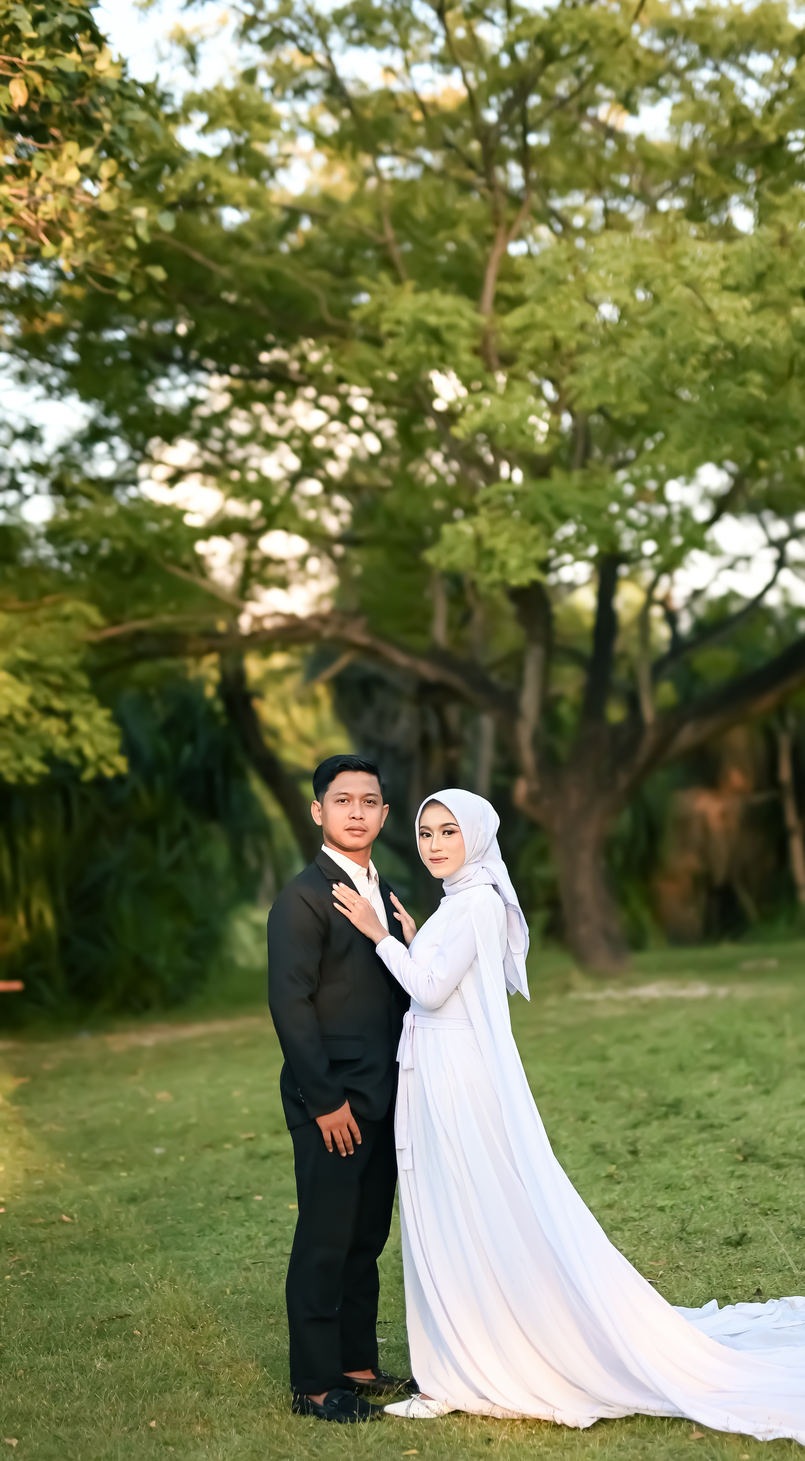
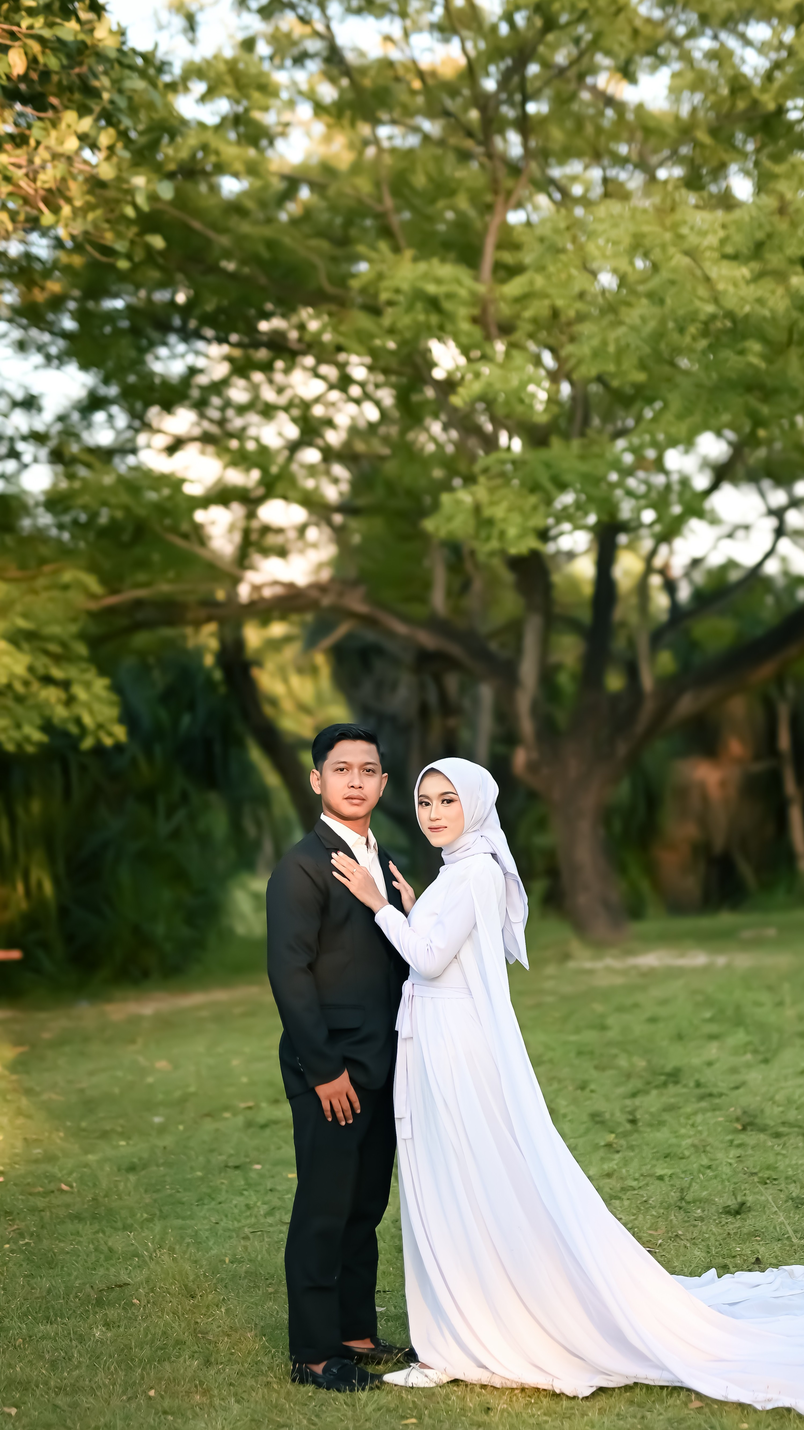
dwqeqwe

diff --git a/tian-ida/index.html b/tian-ida/index.html
@@ -19,7 +19,7 @@
 	<title>The Wedding Of Tian & Ida</title>
 	<meta name="viewport" content="width=device-width, initial-scale=1, shrink-to-fit=no" />
 	<meta property="og:title" content="The Wedding Of Tian & Ida" />
-	<meta property="og:description" content="Senin, 13 April 2026" />
+	<meta property="og:description" content="Kamis, 16 April 2026" />
 	<meta property="og:image" content="https://inv.momenin.my.id/tian-ida/wp-content/uploads/2024/11/banner.jpg" />
 	<meta property="og:url" content="https://momenin.my.id" />
 	<meta property="og:type" content="website" />
@@ -2607,7 +2607,7 @@
 							<div class="wpkoi-elements-countdown-wrapper">
 								<div class="wpkoi-elements-countdown-container wpkoi-elements-countdown-label-inline ">
 									<ul id="wpkoi-elements-countdown-17fbdb0" class="wpkoi-elements-countdown-items"
-										data-date="Apr 13 2026 08:00:00">
+										data-date="Apr 16 2026 08:00:00">
 										<li class="wpkoi-elements-countdown-item">
 											<div class="wpkoi-elements-countdown-days"><span data-days
 													class="wpkoi-elements-countdown-digits">00</span><span
